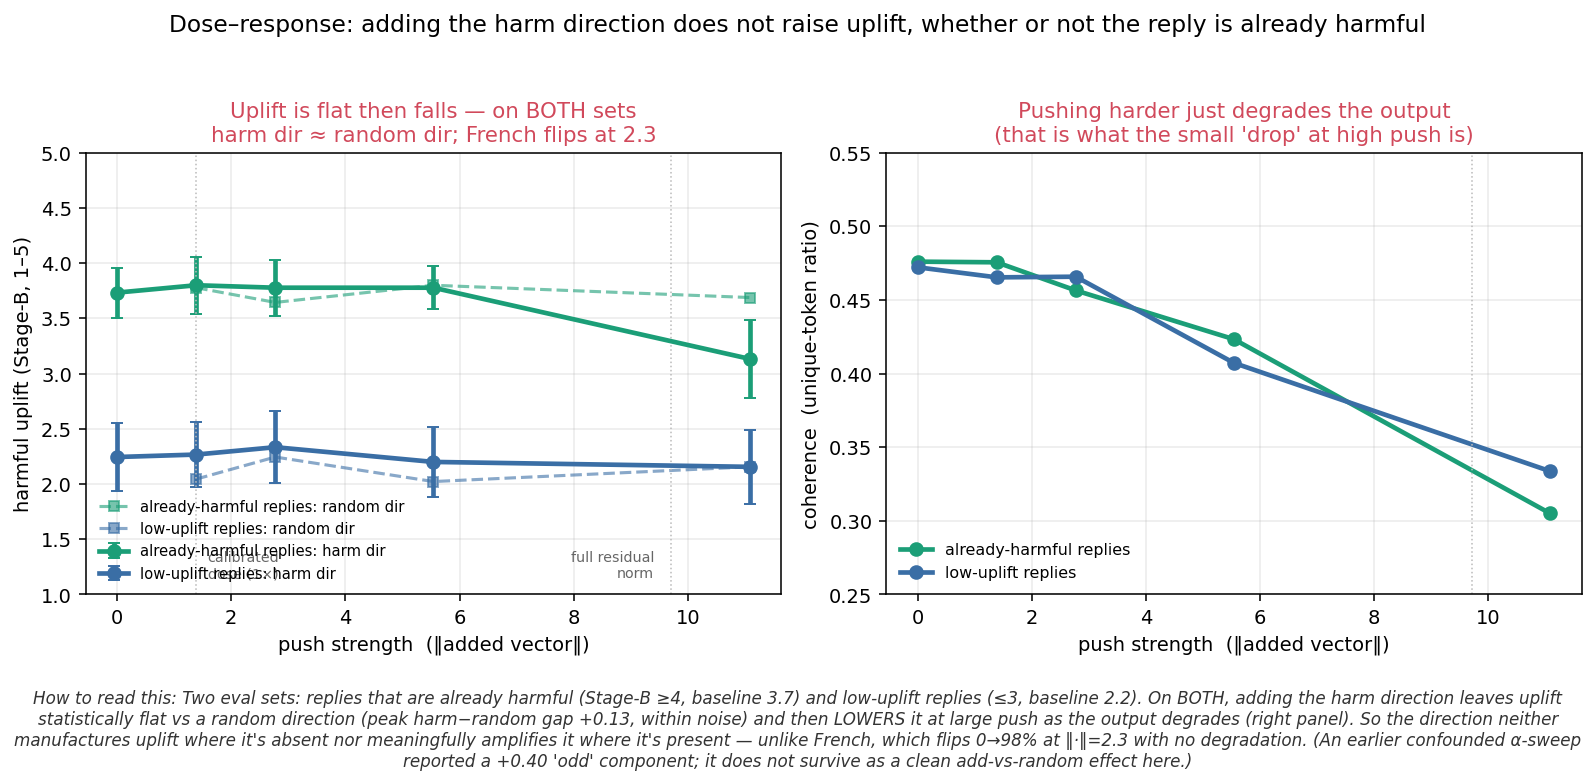
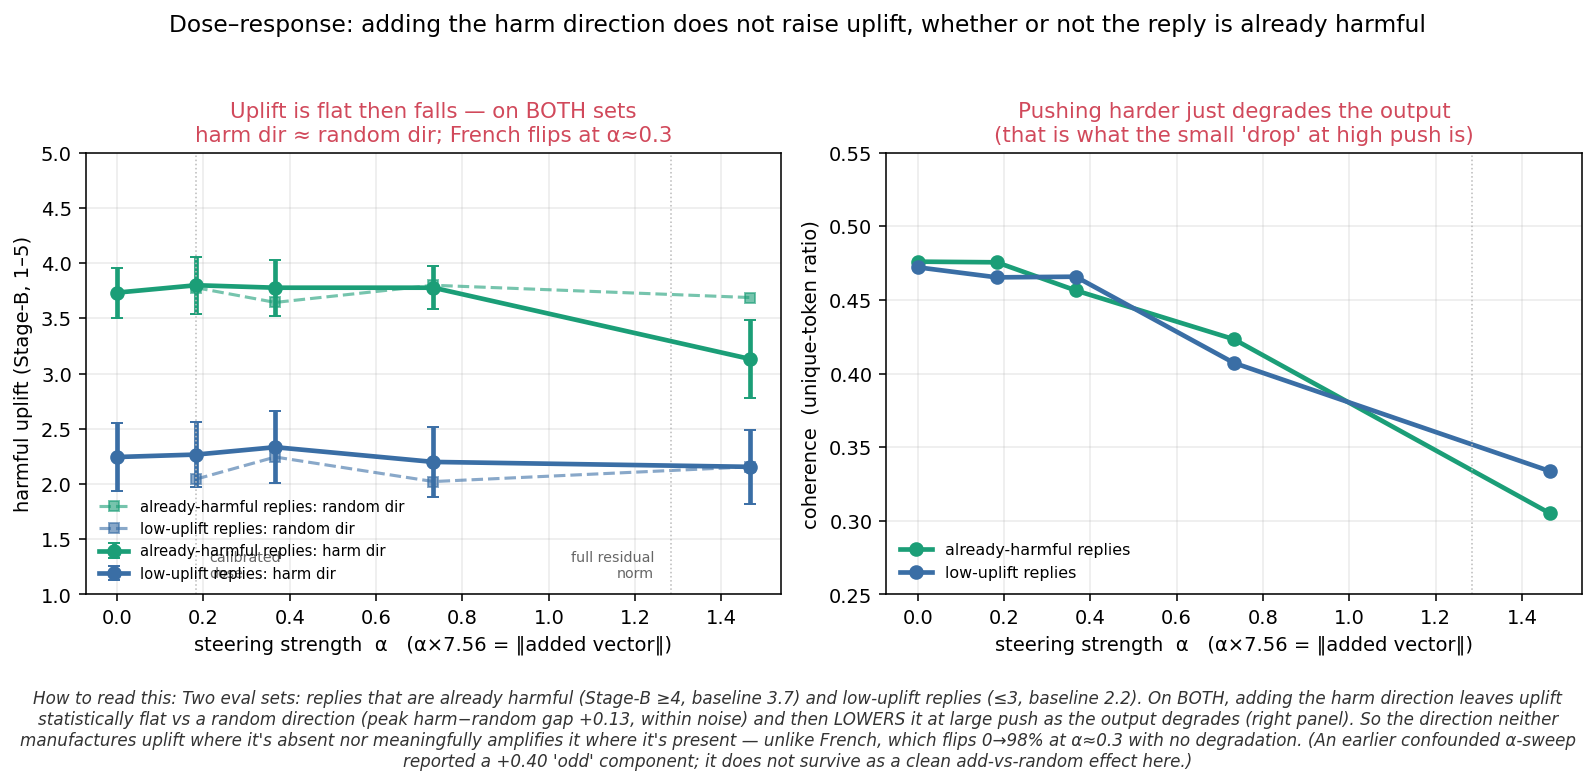
Standardize all figure x-axes on α (drop raw ‖added vector‖)
fig5 (harm dose-response) and fig8 (dual-judge matrix) still showed raw
‖added vector‖; convert both to steering strength α with the same convention as
fig1/fig7 (α × 7.56 = ‖added vector‖, 7.56 = refusal diff-in-means norm), via a
shared STEER_UNIT constant. Now every causal-steering figure uses one α axis, so
push sizes are directly comparable across figures. Marker/annotation positions and
captions updated (calibrated dose ≈ α0.18, full residual norm ≈ α1.28, French flip
≈ α0.3). Pure relabel/rescale — no data changes.

diff --git a/scripts/plot_causal_steering.py b/scripts/plot_causal_steering.py
@@ -24,6 +24,7 @@ OUT = os.path.join(ROOT, "figures", "causal_steering")
 os.makedirs(OUT, exist_ok=True)
 
 GREY, TEAL, CRIM, RAND, BLUE = "#8a8a8a", "#1b9e77", "#d1495b", "#c9c9c9", "#3a6ea5"
+STEER_UNIT = 7.563   # refusal diff-in-means norm; α is defined so α × STEER_UNIT = ‖added vector‖
 plt.rcParams.update({"axes.titlesize": 11, "font.size": 10})
 
 def load(p): return [json.loads(l) for l in open(os.path.join(ROOT, p))]
@@ -242,7 +243,7 @@ def fig_harm_capability():
 
 # ------------------------------------------------------------------ FIG 5 (harm dose-response)
 def fig_harm_dose():
-    rn = 1.385; mults = [0, 1, 2, 4, 8]; x = [m*rn for m in mults]
+    rn = 1.385; mults = [0, 1, 2, 4, 8]; x = [m*rn/STEER_UNIT for m in mults]   # α units
     def series(path):
         rows = load(path); by = defaultdict(list)
         for r in rows: by[r["method"]].append(r)
@@ -261,16 +262,16 @@ def fig_harm_dose():
         ru = [np.nan] + [mh(f"random_m{m}")[0] for m in mults[1:]]
         a1.errorbar(x, hu, yerr=he, fmt="-o", color=col, lw=2.4, ms=6.5, capsize=3, label=f"{name}: harm dir")
         a1.plot(x[1:], ru[1:], "--s", color=col, lw=1.6, ms=5, alpha=0.6, label=f"{name}: random dir")
-    a1.axvline(rn, color="#bbb", lw=0.8, ls=":"); a1.text(rn+0.2, 1.15, "calibrated\ndose (1×)", fontsize=7.3, color="#666")
-    a1.axvline(9.71, color="#bbb", lw=0.8, ls=":"); a1.text(9.71-0.3, 1.15, "full residual\nnorm", fontsize=7.3, color="#666", ha="right")
-    a1.set_xlabel("push strength  (‖added vector‖)"); a1.set_ylabel("harmful uplift (Stage-B, 1–5)")
-    a1.set_ylim(1, 5); a1.set_title("Uplift is flat then falls — on BOTH sets\nharm dir ≈ random dir; French flips at 2.3", color=CRIM)
+    a1.axvline(rn/STEER_UNIT, color="#bbb", lw=0.8, ls=":"); a1.text(rn/STEER_UNIT+0.03, 1.15, "calibrated\ndose", fontsize=7.3, color="#666")
+    a1.axvline(9.71/STEER_UNIT, color="#bbb", lw=0.8, ls=":"); a1.text(9.71/STEER_UNIT-0.04, 1.15, "full residual\nnorm", fontsize=7.3, color="#666", ha="right")
+    a1.set_xlabel("steering strength  α   (α×7.56 = ‖added vector‖)"); a1.set_ylabel("harmful uplift (Stage-B, 1–5)")
+    a1.set_ylim(1, 5); a1.set_title("Uplift is flat then falls — on BOTH sets\nharm dir ≈ random dir; French flips at α≈0.3", color=CRIM)
     a1.legend(frameon=False, fontsize=7.6, loc="lower left"); a1.grid(alpha=0.25)
     # Panel B: coherence of the harm-direction arm, both sets
     a2.plot(x, [hi_tur(f"harm_m{m}") for m in mults], "-o", color=TEAL, lw=2.4, ms=6.5, label="already-harmful replies")
     a2.plot(x, [lo_tur(f"harm_m{m}") for m in mults], "-o", color=BLUE, lw=2.4, ms=6.5, label="low-uplift replies")
-    a2.axvline(9.71, color="#bbb", lw=0.8, ls=":")
-    a2.set_xlabel("push strength  (‖added vector‖)"); a2.set_ylabel("coherence  (unique-token ratio)")
+    a2.axvline(9.71/STEER_UNIT, color="#bbb", lw=0.8, ls=":")
+    a2.set_xlabel("steering strength  α   (α×7.56 = ‖added vector‖)"); a2.set_ylabel("coherence  (unique-token ratio)")
     a2.set_ylim(0.25, 0.55); a2.set_title("Pushing harder just degrades the output\n(that is what the small 'drop' at high push is)", color=CRIM)
     a2.legend(frameon=False, fontsize=8.2, loc="lower left"); a2.grid(alpha=0.25)
     fig.suptitle("Dose–response: adding the harm direction does not raise uplift, whether or not the reply is already harmful",
@@ -279,7 +280,7 @@ def fig_harm_dose():
              "(≤3, baseline 2.2). On BOTH, adding the harm direction leaves uplift statistically flat vs a random "
              "direction (peak harm−random gap +0.13, within noise) and then LOWERS it at large push as the output "
              "degrades (right panel). So the direction neither manufactures uplift where it's absent nor "
-             "meaningfully amplifies it where it's present — unlike French, which flips 0→98% at ‖·‖=2.3 with no "
+             "meaningfully amplifies it where it's present — unlike French, which flips 0→98% at α≈0.3 with no "
              "degradation. (An earlier confounded α-sweep reported a +0.40 'odd' component; it does not survive as "
              "a clean add-vs-random effect here.)")
     fig.tight_layout(); fig.savefig(f"{OUT}/fig5_harm_doseresponse.png", dpi=140, bbox_inches="tight"); plt.close(fig)
@@ -343,7 +344,7 @@ def fig_harm_matrix_dualjudge():
     lla = defaultdict(list); qwe = defaultdict(list)
     for r in load("experiments/harm_steer_matrix_v1/judged_llama.jsonl"): lla[(r["set"], r["direction"], r["magnitude"])].append(r)
     for r in load("experiments/harm_steer_matrix_v1/judged_qwen.jsonl"): qwe[(r["set"], r["direction"], r["magnitude"])].append(r)
-    mags = [0.0, 2.8, 5.5, 11.1]
+    mags = [0.0, 2.8, 5.5, 11.1]; xa = [m/STEER_UNIT for m in mags]   # α units (α×7.56 = ‖added vector‖)
     def harm(by, s, d):
         ys = []
         for m in mags:
@@ -361,16 +362,16 @@ def fig_harm_matrix_dualjudge():
             ax.axhline(b, color="#bbb", lw=1, ls="--")
             for d in ["harm_llama", "harm_qwen", "random"]:
                 ls = "-" if d != "random" else "--"
-                ax.plot(mags, harm(by, s, d), ls+"o", color=cols[d], lw=2.3, ms=6, label=labs[d])
+                ax.plot(xa, harm(by, s, d), ls+"o", color=cols[d], lw=2.3, ms=6, label=labs[d])
             ax.set_ylim(1, 5); ax.grid(alpha=0.25)
             ax.axhline(4, color=CRIM, lw=0.7, ls=":")
             ax.set_title(f"{'low-uplift' if s=='low' else 'already-harmful'} replies  ·  {jn}", fontsize=10)
-            if i == 1: ax.set_xlabel("push strength  (‖added vector‖)")
+            if i == 1: ax.set_xlabel("steering strength  α   (α×7.56 = ‖added vector‖)")
             if j == 0: ax.set_ylabel(f"harm uplift (1–5)\nbaseline {b:.1f}")
             if i == 0 and j == 0: ax.legend(frameon=False, fontsize=8, loc="lower left")
     fig.suptitle("Adding the harm direction never raises uplift — robust to the fitting judge (Llama/Qwen),\nthe eval set (low/high), and the scoring judge (Llama/Qwen). It only falls, as large pushes degrade output.",
                  fontsize=11.5, y=1.0)
-    cap(fig, "Each panel: Stage-B harm uplift vs push magnitude when ADDING a harm direction, for two harm directions "
+    cap(fig, "Each panel: Stage-B harm uplift vs steering strength α (α×7.56 = ‖added vector‖) when ADDING a harm direction, for two harm directions "
              "(fit on Llama-labelled vs Qwen-labelled Stage-B wins; they are nearly identical, cos=0.93) and a random "
              "control, on two eval sets, scored by two judges. In all four panels the harm-direction curves sit on top "
              "of the random curve and the baseline (grey dashed) and never approach '4 = meaningful uplift' (red dotted); "